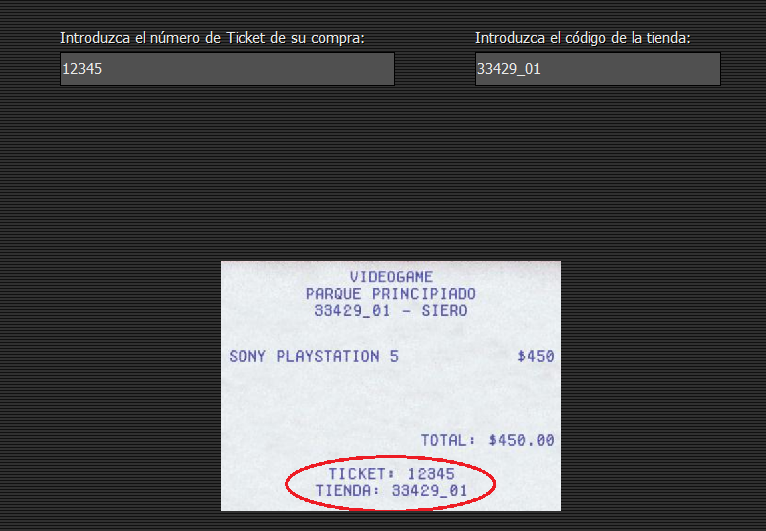
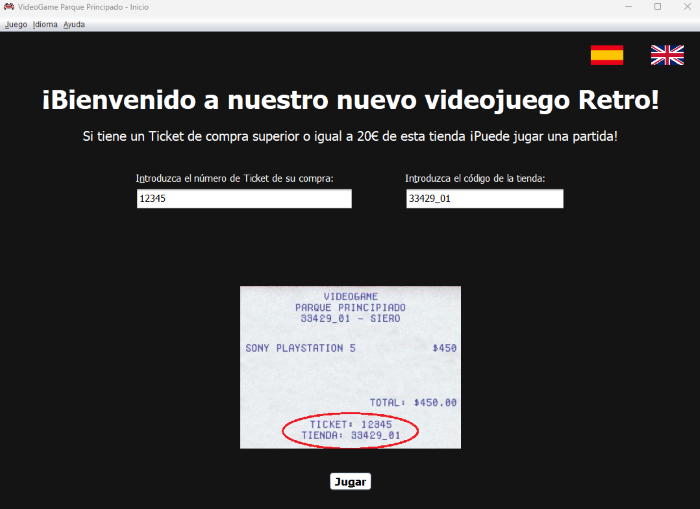
Aplicación finalizada

diff --git a/help/Fuentes/css/estilo.css b/help/Fuentes/css/estilo.css
@@ -2,35 +2,29 @@
  { 
 	font-size:14pt;
 	font-family: Helvetica, Geneva, Arial, sans-serif;
-	background-color: black;
-	color: white;
+	color: black;
 	padding-left: 20px;
 	padding-bottom: 20px;
 } 
 
 h1 
 { 	
+	font-size: 20px;
 	font-family: Helvetica, Geneva, Arial, sans-serif;
-	color: white; 
+	color: black; 
 } 
 
-p, a, ul
+a
 {
-	color: #DBDBDB;
+	color: rgb(54, 54, 54);
+}
+
+h3
+{
+	font-size: 15px;
 }
 
 ul 
 {	
 	list-style-type: disc;
-}
-
-.invasor 
-{
-	width: 120px;
-}
-
-.center
-{
-	display: flex;
-	justify-content: center;
 }

diff --git a/src/uo/cpm/videogame/model/Tablero.java b/src/uo/cpm/videogame/model/Tablero.java
@@ -71,7 +71,7 @@ public class Tablero
 		int numeroInvasor = casilla.getInvasor().getNumero();
 		int posicionTablero = casilla.getPosicionTablero();
 		
-		// A�ado el invasor en el tablero y asigno su posici�n como no v�lida
+		// Aado el invasor en el tablero y asigno su posición como no válida
 		if ( posicionesValidas[posicionTablero] )
 		{
 			tablero[posicionTablero].setInvasor( invasores[numeroInvasor - 1] );
@@ -154,7 +154,7 @@ public class Tablero
 		for ( int i = 0; i < this.getDimensionTablero(); i++ )
 			tablero[i] = new Casilla();
 		
-		// Genero los 5 invasores inicialies
+		// Genero los 5 invasores iniciales
 		for ( int i = 0; i < ronda.length; i++ )
 			this.colocarInvasor(ronda[i]);
 	}
@@ -240,7 +240,7 @@ public class Tablero
 		 * Si lo tiene llamo a calcular puntos
 		 */
 		for ( int i = 0; i < this.getDimensionTablero(); i++ )
-			// Si hay un invasor y la casilla no se marc� para borrar compruebo si tiene colonias
+			// Si hay un invasor y la casilla no se marcó para borrar compruebo si tiene colonias
 			if ( tablero[i].getInvasor() != null && !tablero[i].isBorrar() )
 					puntosTotales += comprobarColonia( tablero[i].getInvasor(), i );
 
@@ -268,8 +268,8 @@ public class Tablero
 	}
 	
 	/**
-	 * Cuando se encuentra en el tablero un invasor que tiene un invasor adyacente del mismo tipo se llama a esta funci�n
-	 * que calcula el tama�o de la colonia y suma los puntos
+	 * Cuando se encuentra en el tablero un invasor que tiene un invasor adyacente del mismo tipo se llama a esta función
+	 * que calcula el tamaño de la colonia y suma los puntos
 	 * 
 	 * @return Los puntos de una colonia de invasores
 	 */
@@ -293,6 +293,7 @@ public class Tablero
 			}
 		}
 		
+		// Si tiene un invasor igual debajo suyo
 		if ( abajo < this.getDimensionTablero() && tablero[abajo].getInvasor() != null && tablero[abajo].getInvasor().getNumero() == invasor.getNumero() )
 		{
 			tamanoColonia = this.calcularTamanoColoniaColumna(invasor, abajo);
@@ -342,14 +343,14 @@ public class Tablero
 	}
 	
 	/**
-	 * Calcula el n�mero de invasores iguales en la misma fila
+	 * Calcula el número de invasores iguales en la misma fila
 	 * 
-	 * @param invasor
-	 * @return
+	 * @param invasor Invasor de la colonia
+	 * @return devuelve el tamaño de la colonia
 	 */
 	private int calcularTamanoColoniaFila(Invasor invasor, int posicionTablero)
 	{
-		// Cuando entra en el m�todo siempre hay 2 invasores iguales
+		// Cuando entra en el método siempre hay 2 invasores iguales
 		int tamanoColonia = 2;
 		int i = 1;
 		
@@ -365,14 +366,14 @@ public class Tablero
 	}
 	
 	/**
-	 * Calcula el n�mero de invasores iguales en la misma fila
+	 * Calcula el número de invasores iguales en la misma fila
 	 * 
-	 * @param invasor
-	 * @return
+	 * @param invasor Invasor de la colonia
+	 * @return devuelve el tamaño de la colonia
 	 */
 	private int calcularTamanoColoniaColumna(Invasor invasor, int posicionTablero)
 	{
-		// Cuando entra en el m�todo siempre hay 2 invasores iguales
+		// Cuando entra en el método siempre hay 2 invasores iguales
 		int tamanoColonia = 2;
 		int i = COLUMNAS;
 		

diff --git a/src/uo/cpm/videogame/ui/VentanaJuego.java b/src/uo/cpm/videogame/ui/VentanaJuego.java
@@ -127,16 +127,16 @@ public class VentanaJuego extends JPanel
 		@Override
 		public void propertyChange(PropertyChangeEvent e) 
 		{			
-			// Si hubo un cambio en la propiedad ImageIcon significa que se arrastr� un invasor
+			// Si hubo un cambio en la propiedad ImageIcon significa que se arrastró un invasor
 			if ( e.getPropertyName().equals("icon") && (e.getNewValue() != null) && (e.getNewValue().getClass().toString().contains("ImageIcon") ))
 			{
-				// El usuario arrastr� un invasor
+				// El usuario arrastró un invasor
 				if ( game.isArrastra() )
 				{
 					MiLabel lbPulsada = (MiLabel) e.getSource();
-					lbPulsada.setTransferHandler(null); // Impido volver a colocar un invasor en esa posici�n
+					lbPulsada.setTransferHandler(null); // Impido volver a colocar un invasor en esa posición
 
-					// Guardo la posici�n del tablero donde se coloc� el invasor
+					// Guardo la posición del tablero donde se colocó el invasor
 					int posicionTablero = lbPulsada.getId();
 					game.setPosicionTableroCasilla(posicionTablero);
 					
@@ -153,7 +153,7 @@ public class VentanaJuego extends JPanel
 					if ( game.getCasilla().getInvasor().isLider() )
 						marcarLider(game.getCasilla().getPosicionTablero());
 					
-					// Compruebo el estado de la ronda o si el tablero est� lleno
+					// Compruebo el estado de la ronda o si el tablero está lleno
 					if ( game.getMovimientos() == 0 )
 						siguienteRonda();
 					/*else if ( game.getNumeroInvasoresTablero() == game.getNumeroInvasoresTableroMaximo() )
@@ -191,6 +191,11 @@ public class VentanaJuego extends JPanel
 		}
 	}
 	
+	/**
+	 * Marca un movimeinto como usado y deshabilita la casilla
+	 * 
+	 * @param posicionMovimiento Posición del movimiento
+	 */
 	private void marcarMovimientoUsado(int posicionMovimiento)
 	{
 		MiLabel label = (MiLabel) this.getPnMovimientos().getComponent(posicionMovimiento);
@@ -281,9 +286,8 @@ public class VentanaJuego extends JPanel
 			JOptionPane.showMessageDialog(this, vp.getInternacionalizar().getTexto("juego.derrota"),
 					game.getNombreTienda(), JOptionPane.INFORMATION_MESSAGE, new ImageIcon(game.getIconoTienda()));
 
-			// Inicializa el juego y muestro la pantalla inicio
-			vp.inicializarJuego();
-			vp.mostrarPantallaInicio();
+			// Inicializa la aplicación
+			vp.inicializarAplicacion();
 		}
 	}
 	
@@ -447,7 +451,7 @@ public class VentanaJuego extends JPanel
 		// Asigno la imagen del invasor
 		label.setIcon( vp.ajustarImagen(label, invasor.getImagen()) );
 		
-		// Asigno el n�mero del invasor a la etiqueta
+		// Asigno el número del invasor a la etiqueta
 		label.setNumeroInvasor(invasor.getNumero());
 		label.setId(i);
 				

diff --git a/src/uo/cpm/videogame/ui/VentanaInicio.java b/src/uo/cpm/videogame/ui/VentanaInicio.java
@@ -361,7 +361,7 @@ public class VentanaInicio extends JPanel
 		getLbBienvenido().setFont(new Font("Tahoma", Font.BOLD, vp.getH1()));
 		getLbPedirTicket().setFont(new Font("Tahoma", Font.PLAIN, vp.getH2()));
 		
-		vp.tamanoTextos(40, 20, 17, 15);
+		vp.tamanoTextos(40, 20, 18, 15);
 		getLbBienvenido().setBorder(new EmptyBorder(10, 0, 0, 0));
 		
 		if ( this.getWidth() < 980 )
@@ -374,7 +374,12 @@ public class VentanaInicio extends JPanel
 	
 	private void ajustarImagenTicket()
 	{
-		// TODO
+		if ( this.getWidth() > 1300 && this.getHeight() > 800 )
+			getLbImagenTicket().setBounds( new Rectangle(500, 380) );
+		else
+			getLbImagenTicket().setBounds( new Rectangle(340, 250) );
+		
+		getLbImagenTicket().setIcon( vp.ajustarImagen(getLbImagenTicket(), "/img/ticket.png") );
 	}
 	
 	private JPanel getPnIdioma() {

diff --git a/src/uo/cpm/videogame/service/Game.java b/src/uo/cpm/videogame/service/Game.java
@@ -25,10 +25,12 @@ public class Game
 	private boolean arrastra;
 	
 	public Game()
-	{	
+	{
 		// Cargo la información de la tienda y de los tickets
 		tienda = new Tienda();
 		tablero = new Tablero();
+		
+		// Uso una casilla para almacenar la casilla que se arrastró y añadirla al tablero
 		casilla = new Casilla();	
 		
 		listaTickets = new ArrayList<Ticket>();
@@ -172,7 +174,7 @@ public class Game
 	
 	public int getNumeroInvasoresTableroMaximo()
 	{
-		// El tama�o total del tablero menos las 5 posiciones no v�lidas del tablero
+		// El tamaño total del tablero menos las 5 posiciones no válidas del tablero
 		return tablero.getDimensionTablero() - Reglas.NUM_POSICIONES_NO_VALIDAS.getValor();
 	}
 	

diff --git a/src/uo/cpm/videogame/ui/VentanaPrincipal.java b/src/uo/cpm/videogame/ui/VentanaPrincipal.java
@@ -318,11 +318,7 @@ public class VentanaPrincipal extends JFrame
 	private void salir()
 	{
 		if ( confirmarSalir() )
-		{
 			this.inicializarAplicacion();
-			
-			this.mostrarPantallaInicio();
-		}		
 	}
 	
 	private boolean confirmarSalir()
@@ -350,7 +346,7 @@ public class VentanaPrincipal extends JFrame
 	/**
 	 * Reinicia los puntos, ronda, tablero y movimientos
 	 */
-	public void inicializarJuego()
+	private void inicializarJuego()
 	{
 		game.inicializar();
 		

diff --git a/src/uo/cpm/videogame/Main.java b/src/uo/cpm/videogame/Main.java
@@ -18,7 +18,7 @@ public class Main
 	 * 1 = 5 invasores no aleatorios y todos de tipo líder
 	 * 2 = 5 invasores no aleatorios y todos de tipo no líder
 	 */
-	public final static int DEBUG = 1;
+	public final static int DEBUG = 0;
 	
 	public static void main(String[] args) 
 	{

diff --git a/src/uo/cpm/videogame/service/Internacionalizar.java b/src/uo/cpm/videogame/service/Internacionalizar.java
@@ -3,7 +3,6 @@ package uo.cpm.videogame.service;
 import java.util.Locale;
 import java.util.ResourceBundle;
 
-
 public class Internacionalizar 
 {
 	private ResourceBundle textos;
